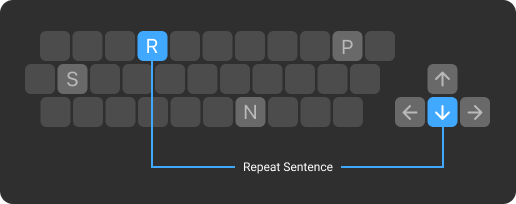
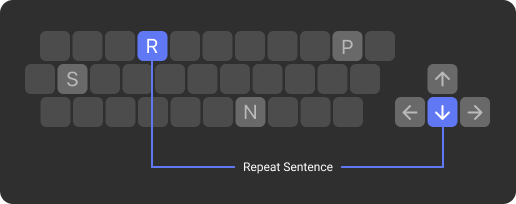
Correct keyboard images for player-animation + solved bugs with main container

Changed region(s): [[0.2481, 0.1471, 0.4651, 0.8235], [0.6512, 0.4706, 0.8992, 0.8235]]

diff --git a/src/components/Navbar/Navbar.scss b/src/components/Navbar/Navbar.scss
@@ -177,6 +177,22 @@ a.menu-nav__link:hover{
     transition: border-bottom 0.1s ease-in-out;
 };
 
+@media (max-width: 1400px) {
+  
+    .logo a {
+        padding-left: 25px;
+    };
+
+};
+
+@media (max-width: 1200px) {
+  
+    .logo a {
+        padding-left: 20px;
+    };
+
+};
+
 /*menu button for mobile version*/
 @media (max-width: 1024px) {
 
@@ -422,6 +438,10 @@ a.menu-nav__link:hover{
 
 @media (max-width: 610px) {
 
+    .logo a {
+        padding-left: 0px;
+    };
+
     .sticky-bar {
         padding-left: 100px;
     };
@@ -434,17 +454,17 @@ a.menu-nav__link:hover{
         @include normalBoldFont;
         display: block;
         width: auto;
-    
+
         border-bottom: 0 !important;
         transition: unset !important;
-      
+
         font-size: 1rem;
         margin: 10px auto;
         text-transform: uppercase;
         letter-spacing: 1px;
         color: $color !important;
         padding: 1px 25px;
-      
+
         background-color: #FF6A70;
         border: none;
         border-radius: 110px;

diff --git a/src/pages/PlayerAnimation/index.jsx b/src/pages/PlayerAnimation/index.jsx
@@ -20,9 +20,9 @@ import backgroundI from "../../assets/images/player-animation/background-images/
 
 import backgroundFinal from "../../assets/images/player-animation/background-images/finalBackground.png";
 
-import keyboardA from "../../assets/images/player-animation/step-images/keyboard-arrows-a.png";
-import keyboardB from "../../assets/images/player-animation/step-images/keyboard-arrows-b.png";
-import keyboardC from "../../assets/images/player-animation/step-images/keyboard-arrows-c.png";
+import keyboardA from "../../assets/images/player-animation/step-images/keyboard-arrows-a.svg";
+import keyboardB from "../../assets/images/player-animation/step-images/keyboard-arrows-b.svg";
+import keyboardC from "../../assets/images/player-animation/step-images/keyboard-arrows-c.svg";
 
 // import leftArrow from "../../assets/images/player-animation/arrow-images/leftArrow.svg";
 // import rightArrow from "../../assets/images/player-animation/arrow-images/rightArrow.svg";

diff --git a/src/components/WithScrollContent/WithScrollContent.scss b/src/components/WithScrollContent/WithScrollContent.scss
@@ -5,22 +5,22 @@ body {
 };
 
 .Description-Scroll {
-  margin: 4% 8% !important;
+  margin: 4% 7.9% !important;
 };
 .scrolled-content-header h1 {
-  margin: 4% 18% !important;
+  margin: 4% 17.7% !important;
 };
 
-@media (max-width: 1760px) {
+// @media (max-width: 1760px) {
   
-  .Description-Scroll {
-    margin: 4% 8% !important;
-  };
-  .scrolled-content-header h1 {
-    margin: 4% 18% !important;
-  };
+//   .Description-Scroll {
+//     margin: 4% 7.9% !important;
+//   };
+//   .scrolled-content-header h1 {
+//     margin: 4% 17.7% !important;
+//   };
 
-};
+// };
 
 .scrolled-content-header h1 {
   text-transform: uppercase;

diff --git a/src/components/Navbar/index.jsx b/src/components/Navbar/index.jsx
@@ -88,7 +88,7 @@ export default class Navbar extends React.Component {
                     currentPercentage = (e.scrollTop || p.scrollTop) / (p.scrollHeight - p.clientHeight ) * 100;
 
                 return  Math.round(currentPercentage);
-            }
+            };
 
             if(window.location.href.includes("player")){
                 checkUrlCondition(currentPercentage)
